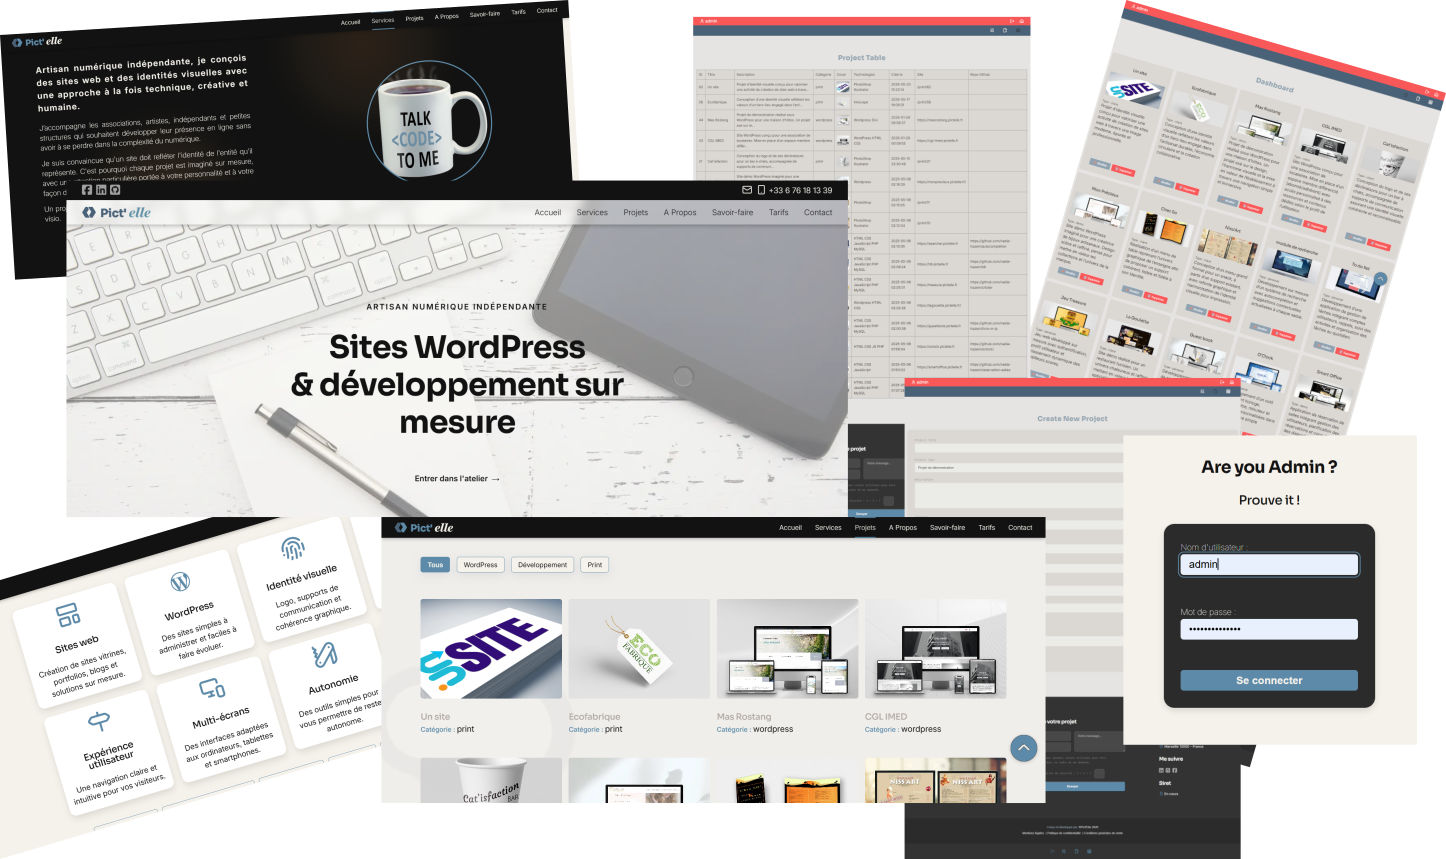
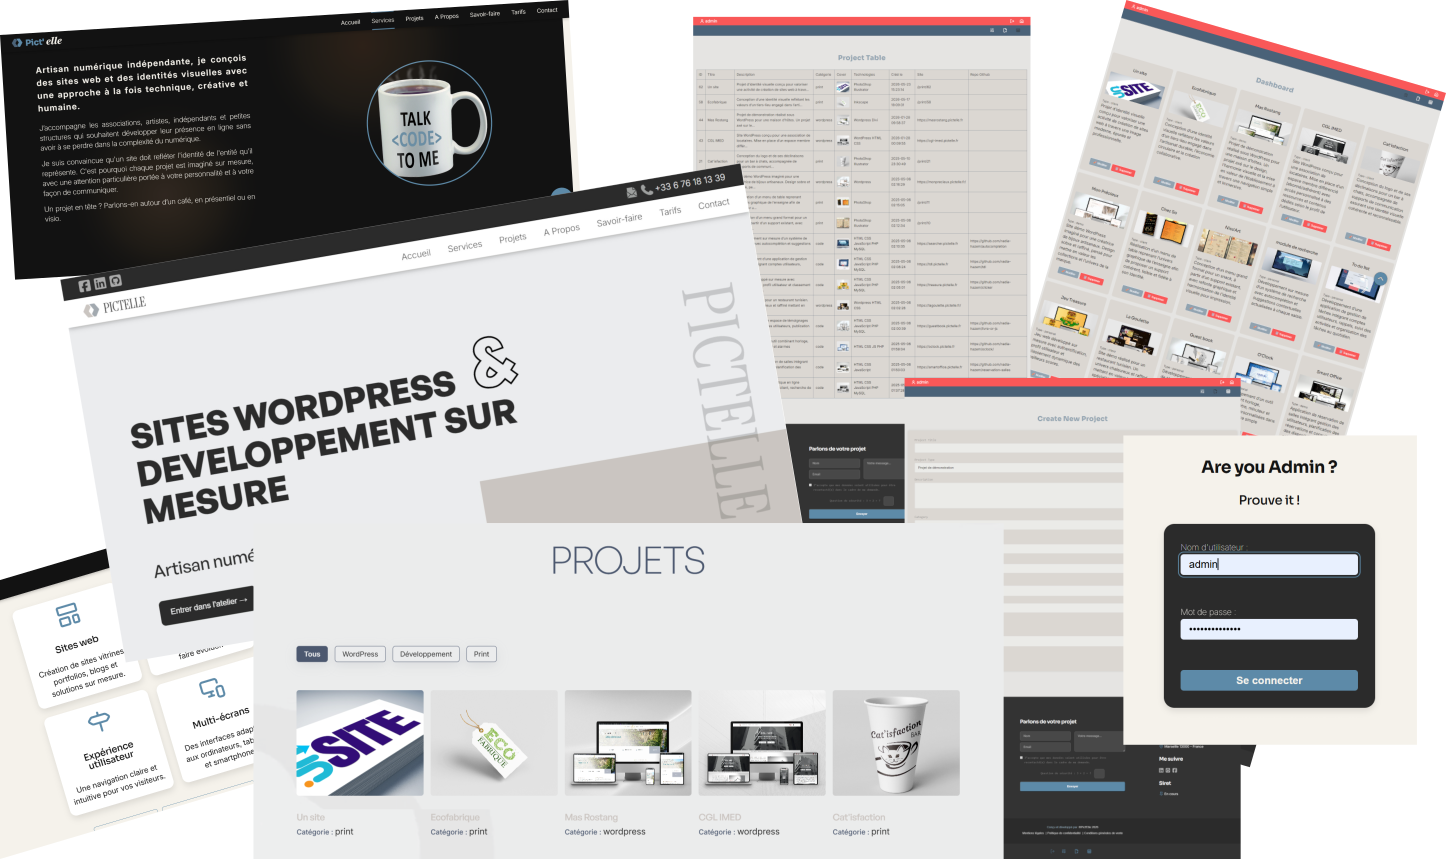
update images

Changed region(s): [[0.0311, 0.1816, 0.7469, 1.0], [0.0311, 0.3935, 0.0622, 0.4237]]

diff --git a/README.md b/README.md
@@ -1,14 +1,13 @@
 <p align="left">
-  <img src="title_pictelle.png" alt="Pictelle" height="40px" style="vertical-align: middle;">
+  <img src="title_pictelle.png" alt="Pictelle" wight="200px" style="vertical-align: middle;">
 </p>
 
 # **Digital Craftsmanship — Elegant websites, thoughtfully built.**  
+
+ ![Pictelle](/preview.jpg)
+
 Creating thoughtful, elegant websites with **WordPress** when flexibility matters, and **custom PHP** solutions when a project deserves a tailor-made solution.  
 ***Clean architecture, refined interfaces, and maintainable code — with an artisan’s touch.***
-
-
- ![Pictelle](/screenshot_Pictelle.png)
-
 
 + [About](#about)
 + [My tools](#my-tools)
